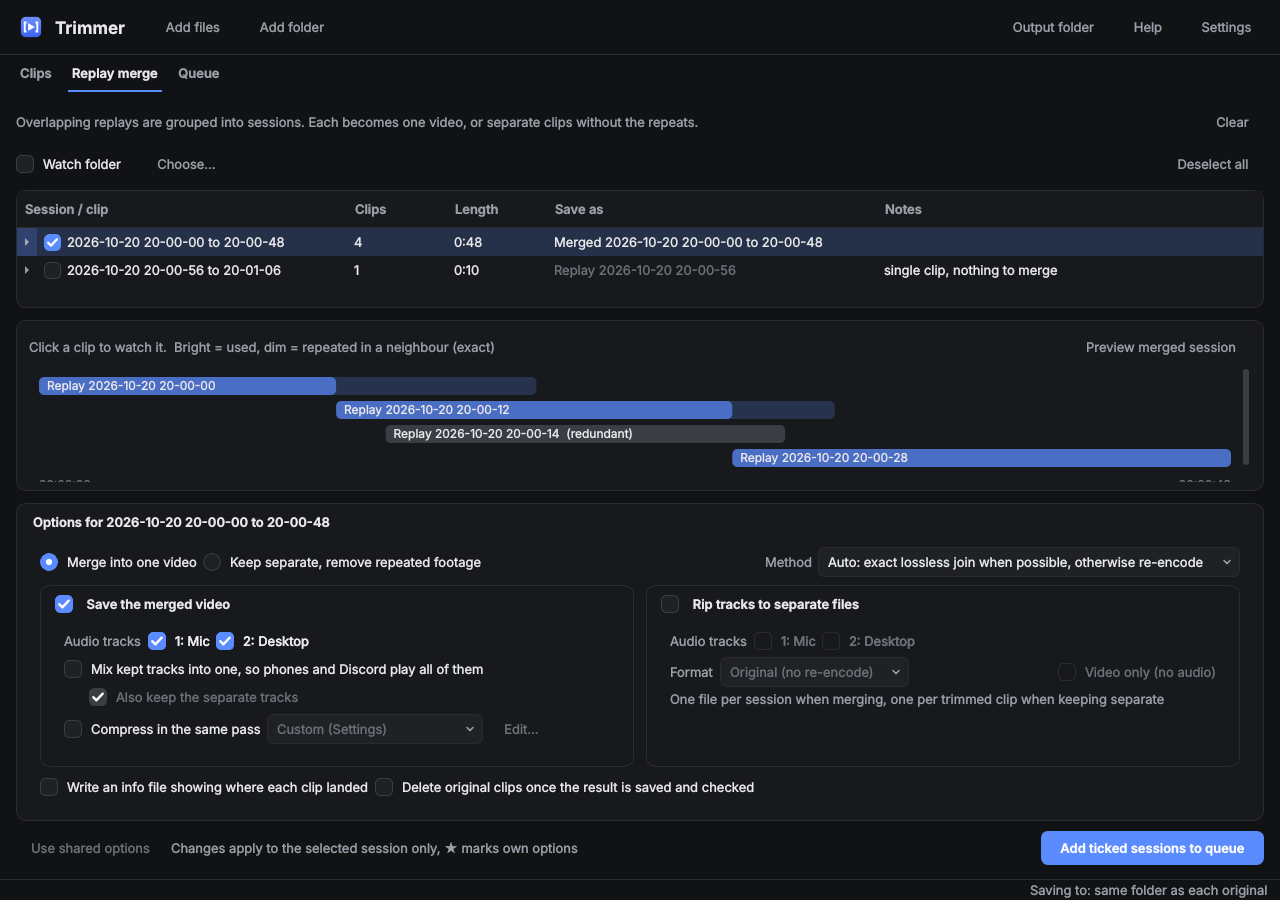
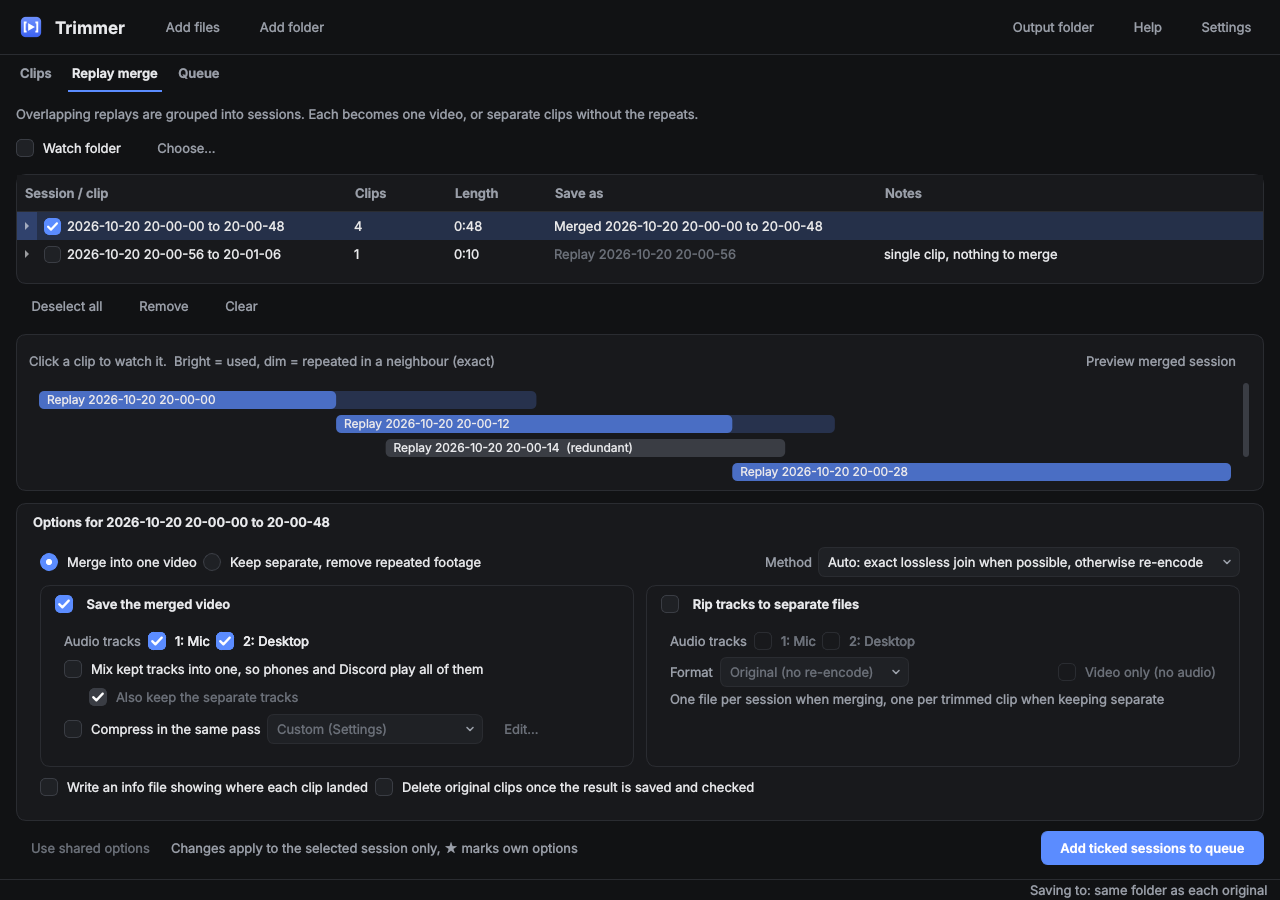
Group Replay merge's list buttons and add Remove

Changed region(s): [[0.0, 0.1244, 1.0, 0.56], [0.8438, 0.3733, 0.9688, 0.4044], [0.9062, 0.1244, 0.9688, 0.1867]]

diff --git a/trimmer/gui/merge_tab.py b/trimmer/gui/merge_tab.py
@@ -207,11 +207,8 @@ class MergeTab(QWidget):
         lay = QVBoxLayout(self)
         lay.setContentsMargins(16, 14, 16, 14)
         lay.setSpacing(10)
-        b_clear = set_kind(QPushButton("Clear"), "ghost")
-        b_clear.clicked.connect(self.clear)
-        lay.addWidget(hbox(label("Overlapping replays are grouped into sessions. Each becomes one video, "
-                                 "or separate clips without the repeats.", "muted"),
-                           "stretch", b_clear, stretch_end=False))
+        lay.addWidget(label("Overlapping replays are grouped into sessions. Each becomes one video, "
+                            "or separate clips without the repeats.", "muted"))
 
         self.watch_box = QCheckBox("Watch folder")
         self.watch_box.setToolTip("Add new replays from this folder automatically as OBS saves them")
@@ -220,11 +217,7 @@ class MergeTab(QWidget):
         b_watch = set_kind(QPushButton("Choose…"), "ghost")
         b_watch.clicked.connect(lambda: self._choose_watch_folder())
         self.watch_hint = label("", "muted")
-        b_desel = set_kind(QPushButton("Deselect all"), "ghost")
-        b_desel.setToolTip("Back to the options for all sessions  (Esc in the list)")
-        b_desel.clicked.connect(lambda: self.deselect_all())
-        lay.addWidget(hbox(self.watch_box, self.watch_path, b_watch, self.watch_hint, "stretch", b_desel,
-                           stretch_end=False))
+        lay.addWidget(hbox(self.watch_box, self.watch_path, b_watch, self.watch_hint))
 
         split = QSplitter(Qt.Vertical)
         self.tree = HintTree()
@@ -246,11 +239,28 @@ class MergeTab(QWidget):
         self.tree.itemDelegate().closeEditor.connect(lambda *_: self._refresh_default_names())
         sc = QShortcut(QKeySequence("F2"), self.tree)
         sc.activated.connect(lambda: self._edit_name(self.tree.currentItem()))
+        sc = QShortcut(QKeySequence("Delete"), self.tree)
+        sc.activated.connect(lambda: self.remove_selected())
         sc = QShortcut(QKeySequence("Shift+Delete"), self.tree)
         sc.activated.connect(lambda: self.delete_selected())
         self.tree.header().setHighlightSections(False)
         self.tree.itemSelectionChanged.connect(self._sel)
-        split.addWidget(self.tree)
+        b_desel = set_kind(QPushButton("Deselect all"), "ghost")
+        b_desel.setToolTip("Back to the options for all sessions  (Esc in the list)")
+        b_desel.clicked.connect(lambda: self.deselect_all())
+        b_rm = set_kind(QPushButton("Remove"), "ghost")
+        b_rm.setToolTip("Take the selected clips out of the list. The files stay where they are  (Delete)")
+        b_rm.clicked.connect(lambda: self.remove_selected())
+        b_clear = set_kind(QPushButton("Clear"), "ghost")
+        b_clear.setToolTip("Empty the list. The files stay where they are")
+        b_clear.clicked.connect(self.clear)
+        list_pane = QWidget()
+        ll = QVBoxLayout(list_pane)
+        ll.setContentsMargins(0, 0, 0, 0)
+        ll.setSpacing(6)
+        ll.addWidget(self.tree, 1)
+        ll.addWidget(hbox(b_desel, b_rm, b_clear))      # under the list, from its left edge, as in Clips
+        split.addWidget(list_pane)
         vc, vcl = card(margins=(12, 10, 12, 8), spacing=4)
         self.b_preview = set_kind(QPushButton("Preview merged session"), "ghost")
         self.b_preview.setToolTip("Builds a temporary merged video of the selected session and plays it. "
@@ -984,6 +994,7 @@ class MergeTab(QWidget):
                         lambda: self.merge_then_send())
         m.addSeparator()
         what = f"{len(clips)} clip{'s' if len(clips) != 1 else ''}"
+        m.addAction(f"Remove {what} from the list\tDel", lambda: self.remove_selected())
         m.addAction((f"Delete {what} permanently…" if self.main.settings.permanent_delete
                      else f"Move {what} to the Recycle Bin…") + "\tShift+Del", lambda: self.delete_selected())
         m.exec(self.tree.viewport().mapToGlobal(pos))
@@ -1007,6 +1018,17 @@ class MergeTab(QWidget):
         paths = [c.path for c in clips]
         self._take(paths)
         self.main.send_to_clips(paths)
+
+    def remove_selected(self, clips=None):
+        """Take clips (default: the selection) out of Replay merge. The files are left alone."""
+        if clips is None:
+            clips = self._selection()[0]
+        if not clips:
+            return
+        doomed = {str(c.path) for c in clips}
+        for d in [d for d in self.viewers if str(d.clip.path) in doomed]:
+            d.close()
+        self._take([c.path for c in clips])
 
     def release(self, paths):
         """Close the viewers of files that are about to be deleted."""

diff --git a/tests/test_gui.py b/tests/test_gui.py
@@ -804,7 +804,7 @@ def test_merge_per_session_options():
     assert not tree.selectedItems() and tree.currentItem() is None
     _select_rows(tree, [0])
     w.resize(1280, 1100)                          # room below the rows, however small the screen is
-    tree.parentWidget().setSizes([300, 170])
+    m.split.setSizes([300, 170])
     pump(0.3)
     vp, below = tree.viewport(), tree.visualItemRect(second).bottom() + 8
     assert below < vp.height()
@@ -1541,4 +1541,21 @@ def test_help_menu_and_tidier_layout(monkeypatch):
     w.show_status("Found 2 session(s)")
     w.tabs.setCurrentWidget(w.queue)
     assert w.statusBar().currentMessage() == ""
+    # Replay merge: the list's buttons sit under it, and Remove takes clips out without touching files
+    m = w.merge
+    texts = [b.text() for b in m.findChildren(QPushButton)]
+    assert {"Deselect all", "Remove", "Clear"} <= set(texts)
+    rep = WORK / "help_rep"
+    paths = fx.shared_replays(rep)
+    m.add_paths(paths)
+    pump(30, lambda: m.sessions)
+    n = len(m.paths)
+    _select_rows(m.tree, [(0, 0)])
+    m.remove_selected()
+    pump(30, lambda: len(m.paths) == n - 1 and m.sessions)
+    assert all(Path(p).exists() for p in paths)
+    m.tree.selectAll()
+    m.remove_selected()
+    pump(30, lambda: not m.paths)
+    assert not m.sessions and m.tree.topLevelItemCount() == 0
     w.close()

diff --git a/trimmer/gui/help.py b/trimmer/gui/help.py
@@ -83,6 +83,7 @@ SHORTCUTS = """
 <h3>Replay merge tab</h3>
 <table cellpadding="4">
 <tr><td><b>F2</b></td><td>Name the selected session's output</td></tr>
+<tr><td><b>Delete</b></td><td>Remove the selected replays from the list</td></tr>
 <tr><td><b>Shift+Delete</b></td><td>Move the selected replays to the Recycle Bin</td></tr>
 <tr><td><b>Shift-click a tick</b></td><td>Tick or untick every session</td></tr>
 <tr><td><b>Esc</b> (in the list)</td><td>Deselect, back to the options for all sessions</td></tr>

diff --git a/CHANGELOG.md b/CHANGELOG.md
@@ -20,6 +20,8 @@ First release on GitHub, with a Windows installer and a portable zip.
   options can be resized by dragging, the Clips preview and options can be resized too, the kept
   parts list only takes the room it needs, the Video column is shorter ("1080p60 h264"; the full
   details are in its tooltip), and status messages clear when you switch tabs.
+- New: Replay merge has Deselect all, Remove and Clear under its session list, like Clips, and
+  "Remove from the list" (Delete) in its right-click menu. The files stay where they are.
 - New: a "↺" button at the end of every Settings row that isn't on its default puts just that
   setting back (nothing is saved until Save), and "↺ Restore default" does the same for the
   custom compression settings.
